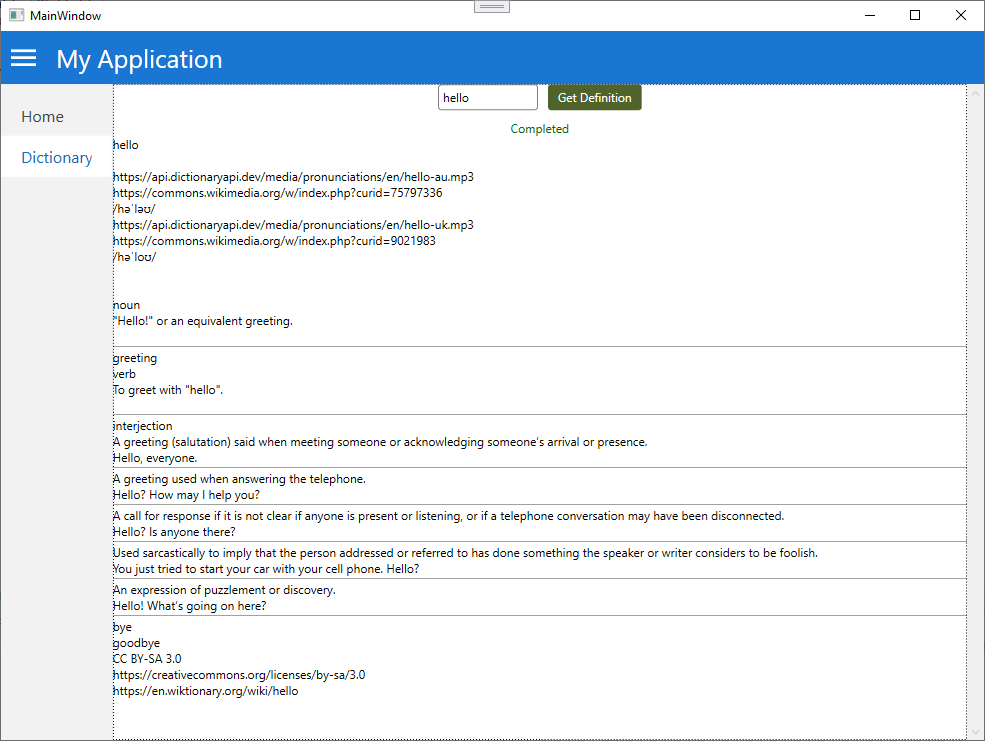
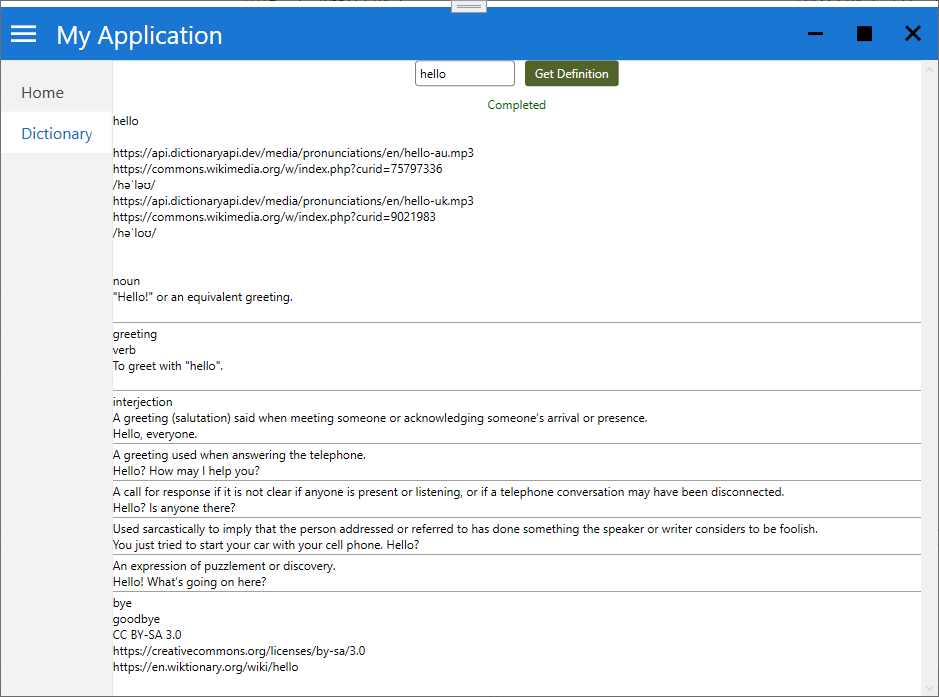
Updated Title bar

diff --git a/Template.WPF/Controls/TitleBarButtons.xaml b/Template.WPF/Controls/TitleBarButtons.xaml
@@ -1,0 +1,87 @@
+<UserControl x:Class="Template.WPF.Controls.TitleBarButtons"
+             xmlns="http://schemas.microsoft.com/winfx/2006/xaml/presentation"
+             xmlns:x="http://schemas.microsoft.com/winfx/2006/xaml"
+             xmlns:mc="http://schemas.openxmlformats.org/markup-compatibility/2006"
+             xmlns:d="http://schemas.microsoft.com/expression/blend/2008"
+             xmlns:local="clr-namespace:Template.WPF.Controls"
+             mc:Ignorable="d"
+             d:DesignHeight="450" d:DesignWidth="800">
+    <UserControl.Resources>
+        <!-- Style for the title bar buttons -->
+        <Style x:Key="TitleBarButtonStyle" TargetType="Button">
+            <Setter Property="Foreground" Value="Black" />
+            <Setter Property="Background" Value="Transparent" />
+            <Setter Property="BorderBrush" Value="Transparent" />
+            <Setter Property="BorderThickness" Value="0" />
+            <Setter Property="Width" Value="45" />
+            <Setter Property="Height" Value="30" />
+            <Setter Property="Margin" Value="2" />
+            <Setter Property="Cursor" Value="Hand" />
+            <Style.Triggers>
+                <Trigger Property="IsMouseOver" Value="True">
+                    <Setter Property="Background" Value="#FF555555" />
+                </Trigger>
+            </Style.Triggers>
+        </Style>
+
+        <!-- Icons for Close -->
+        <Style x:Key="CloseRestoreButtonStyle" TargetType="Button" BasedOn="{StaticResource TitleBarButtonStyle}">
+            <Setter Property="ContentTemplate">
+                <Setter.Value>
+                    <DataTemplate>
+                        <Viewbox Width="15" Height="15">
+                            <Path Data="M0,0 L10,10 M10,0 L0,10" Stroke="Black" StrokeThickness="2" />
+                        </Viewbox>
+                    </DataTemplate>
+                </Setter.Value>
+            </Setter>
+        </Style>
+
+        <!-- Icons for Minimize -->
+        <Style x:Key="MinimizeRestoreButtonStyle" TargetType="Button" BasedOn="{StaticResource TitleBarButtonStyle}">
+            <Setter Property="ContentTemplate">
+                <Setter.Value>
+                    <DataTemplate>
+                        <Viewbox Width="15" Height="15">
+                            <Path Data="M0,1 L10,1" Stroke="Black" StrokeThickness="2" />
+                        </Viewbox>
+                    </DataTemplate>
+                </Setter.Value>
+            </Setter>
+        </Style>
+
+        <!-- Icons for Maximize and Restore -->
+        <Style x:Key="MaximizeRestoreButtonStyle" TargetType="Button" BasedOn="{StaticResource TitleBarButtonStyle}">
+            <Setter Property="ContentTemplate">
+                <Setter.Value>
+                    <DataTemplate>
+                        <Viewbox Width="15" Height="15">
+                            <Path Data="M0,0 L1,0 1,1 0,1 Z" Fill="Black" Stretch="Uniform" />
+                        </Viewbox>
+                    </DataTemplate>
+                </Setter.Value>
+            </Setter>
+            <Style.Triggers>
+                <DataTrigger Binding="{Binding RelativeSource={RelativeSource AncestorType=Window}, Path=WindowState}" Value="Maximized">
+                    <Setter Property="ContentTemplate">
+                        <Setter.Value>
+                            <DataTemplate>
+                                <Viewbox Width="10" Height="10">
+                                    <Path Data="M0,0 L1,0 0.5,0.5 0,1 Z" Fill="Black" Stretch="Uniform" />
+                                </Viewbox>
+                            </DataTemplate>
+                        </Setter.Value>
+                    </Setter>
+                </DataTrigger>
+            </Style.Triggers>
+        </Style>
+    </UserControl.Resources>
+
+    <Grid>
+        <StackPanel Orientation="Horizontal" HorizontalAlignment="Right">
+            <Button Style="{StaticResource MinimizeRestoreButtonStyle}" Command="{Binding MinimizeCommand}" ToolTip="Minimize" />
+            <Button Style="{StaticResource MaximizeRestoreButtonStyle}" Command="{Binding MaximizeRestoreCommand}" ToolTip="Maximize/Restore" />
+            <Button Style="{StaticResource CloseRestoreButtonStyle}" Command="{Binding CloseCommand}" ToolTip="Close" />
+        </StackPanel>
+    </Grid>
+</UserControl>

diff --git a/Template.WPF/MainWindow.xaml b/Template.WPF/MainWindow.xaml
@@ -8,9 +8,10 @@
         xmlns:vm="clr-namespace:Template.WPF.ViewModels"
         xmlns:nav="clr-namespace:Template.WPF.State.Navigators"
         xmlns:converters="clr-namespace:Template.WPF.Converters"
+        xmlns:controls="clr-namespace:Template.WPF.Controls"
         mc:Ignorable="d"
         Title="MainWindow" Height="450" Width="800"
-        MinWidth="600" MinHeight="400">
+        MinWidth="600" MinHeight="400" WindowStyle="None">
     <Window.Resources>
         <converters:EqualValueToParameterConverter x:Key="EqualValueToParameterConverter" />
     </Window.Resources>
@@ -28,40 +29,20 @@
         </Grid.ColumnDefinitions>
 
         <Grid Grid.Row="0" Grid.ColumnSpan="2" Background="#1976d2">
-            <StackPanel Orientation="Horizontal">
-                <CheckBox x:Name="cbToggleMenu" Margin="10" Style="{StaticResource MyCustomCheckboxStyle}" />
-                <!--<CheckBox x:Name="cbToggleMenu" Margin="10">
-                <CheckBox.Template>
-                <ControlTemplate TargetType="CheckBox">
-                <Grid Background="Transparent">
-                <Viewbox Width="25" Height="25">
-                <Path
-                Data="M3 18h18v-2H3v2zm0-5h18v-2H3v2zm0-7v2h18V6H3z"
-                Fill="White"
-                Stretch="Fill" />
-                </Viewbox>
-                </Grid>
-                </ControlTemplate>
-                </CheckBox.Template>
-                <CheckBox.Style>
-                <Style TargetType="CheckBox">
-                <Style.Triggers>
-                <DataTrigger Binding="{Binding IsLoggedIn, UpdateSourceTrigger=PropertyChanged}" Value="false">
-                <Setter Property="Visibility" Value="Collapsed" />
-                </DataTrigger>
-                <DataTrigger Binding="{Binding IsLoggedIn, UpdateSourceTrigger=PropertyChanged}" Value="true">
-                <Setter Property="Visibility" Value="Visible" />
-                <Setter Property="IsChecked" Value="True" />
-                </DataTrigger>
-                </Style.Triggers>
-                </Style>
-                </CheckBox.Style>
-                </CheckBox>-->
-                <TextBlock Padding="10"
-                           FontSize="25"
-                           Foreground="White"
-                           Text="My Application" />
-            </StackPanel>
+            <!-- Draggable area -->
+            <Border Background="Transparent"
+                    MouseLeftButtonDown="Border_MouseLeftButtonDown">
+                <StackPanel Orientation="Horizontal" Grid.Row="0">
+                    <CheckBox x:Name="cbToggleMenu" Margin="10" Style="{StaticResource MyCustomCheckboxStyle}" />
+                    <TextBlock Padding="10"
+                               FontSize="25"
+                               Foreground="White"
+                               Text="My Application" />
+                </StackPanel>
+            </Border>
+
+            <!-- Title bar buttons -->
+            <controls:TitleBarButtons HorizontalAlignment="Right" VerticalAlignment="Center" />
         </Grid>
 
         <Grid Grid.Row="1" Grid.Column="0">

diff --git a/Template.WPF/Controls/TitleBarButtons.xaml.cs b/Template.WPF/Controls/TitleBarButtons.xaml.cs
@@ -1,0 +1,53 @@
+using System;
+using System.Collections.Generic;
+using System.Linq;
+using System.Text;
+using System.Threading.Tasks;
+using System.Windows;
+using System.Windows.Controls;
+using System.Windows.Data;
+using System.Windows.Documents;
+using System.Windows.Input;
+using System.Windows.Media;
+using System.Windows.Media.Imaging;
+using System.Windows.Navigation;
+using System.Windows.Shapes;
+using Template.WPF.Commands;
+
+namespace Template.WPF.Controls
+{
+    /// <summary>
+    /// Interaction logic for TitleBarButtons.xaml
+    /// </summary>
+    public partial class TitleBarButtons : UserControl
+    {
+        public ICommand MinimizeCommand { get; private set; }
+        public ICommand MaximizeRestoreCommand { get; private set; }
+        public ICommand CloseCommand { get; private set; }
+
+        public TitleBarButtons()
+        {
+            InitializeComponent();
+            MinimizeCommand = new RelayCommand(OnMinimize);
+            MaximizeRestoreCommand = new RelayCommand(OnMaximizeRestore);
+            CloseCommand = new RelayCommand(OnClose);
+            DataContext = this;
+        }
+
+        private void OnClose()
+        {
+            Window.GetWindow(this).Close();
+        }
+
+        private void OnMinimize()
+        {
+            Window.GetWindow(this).WindowState = WindowState.Minimized;
+        }
+
+        private void OnMaximizeRestore()
+        {
+            var window = Window.GetWindow(this);
+            window.WindowState = window.WindowState == WindowState.Maximized ? WindowState.Normal : WindowState.Maximized;
+        }
+    }
+}

diff --git a/Template.WPF/MainWindow.xaml.cs b/Template.WPF/MainWindow.xaml.cs
@@ -22,8 +22,9 @@ namespace Template.WPF
             this.DataContext = dataContext;
         }
 
-        public MainWindow()
+        private void Border_MouseLeftButtonDown(object sender, MouseButtonEventArgs e)
         {
+            this.DragMove();
         }
     }
 }
